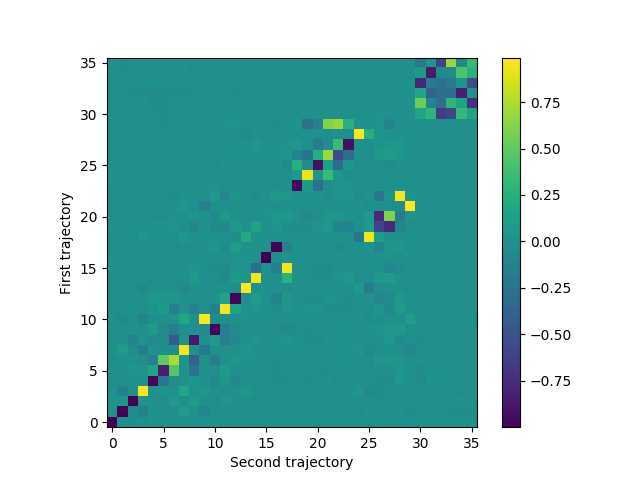
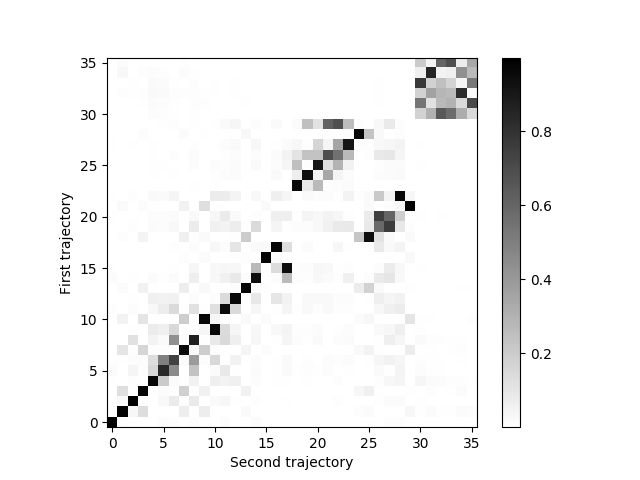
minfix

diff --git a/scr/eigenvecdot.py b/scr/eigenvecdot.py
@@ -35,9 +35,9 @@ def main(file1, file2):
 
 	for i in range(len(eigenvecs1)):
 		for j in range(len(eigenvecs1)):
-			matrix[i][j] = np.dot(eigenvecs1[i], eigenvecs2[j])
+			matrix[i][j] = abs(np.dot(eigenvecs1[i], eigenvecs2[j]))
 
-	plt.imshow(matrix, interpolation='nearest', origin='lower')
+	plt.imshow(matrix, interpolation='nearest', origin='lower', cmap='gray_r')
 	plt.show()
 
 
